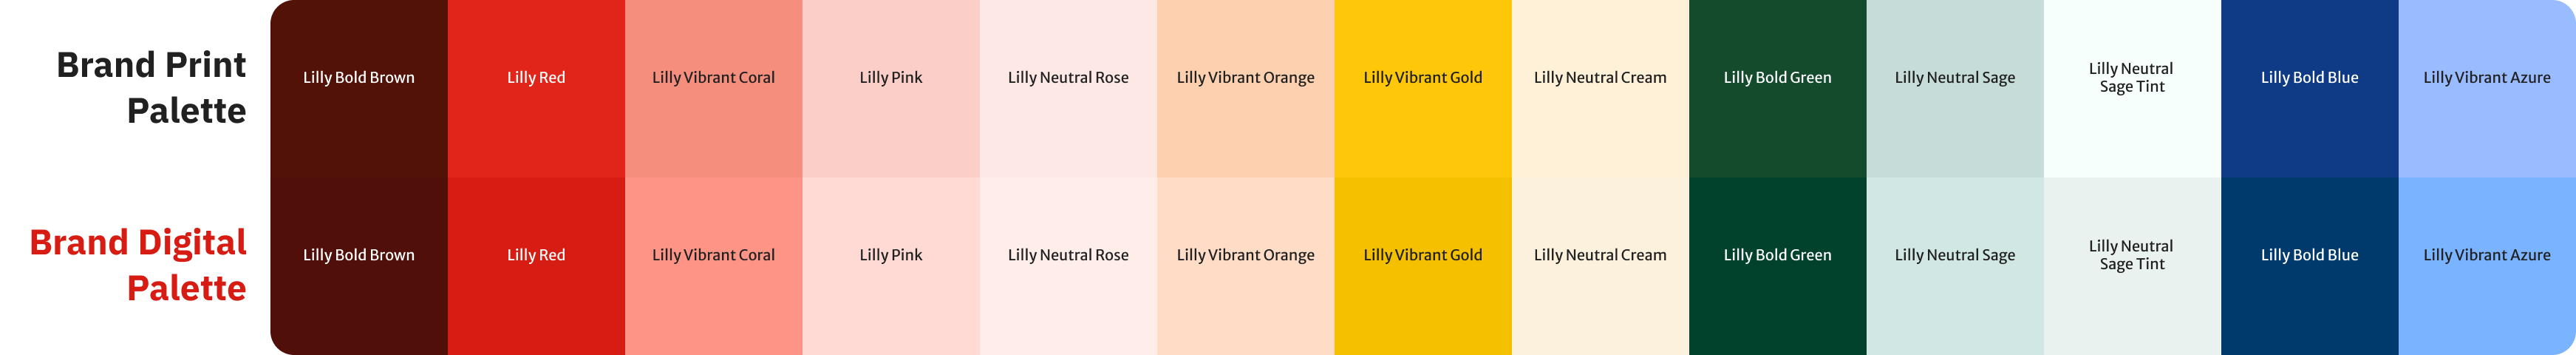
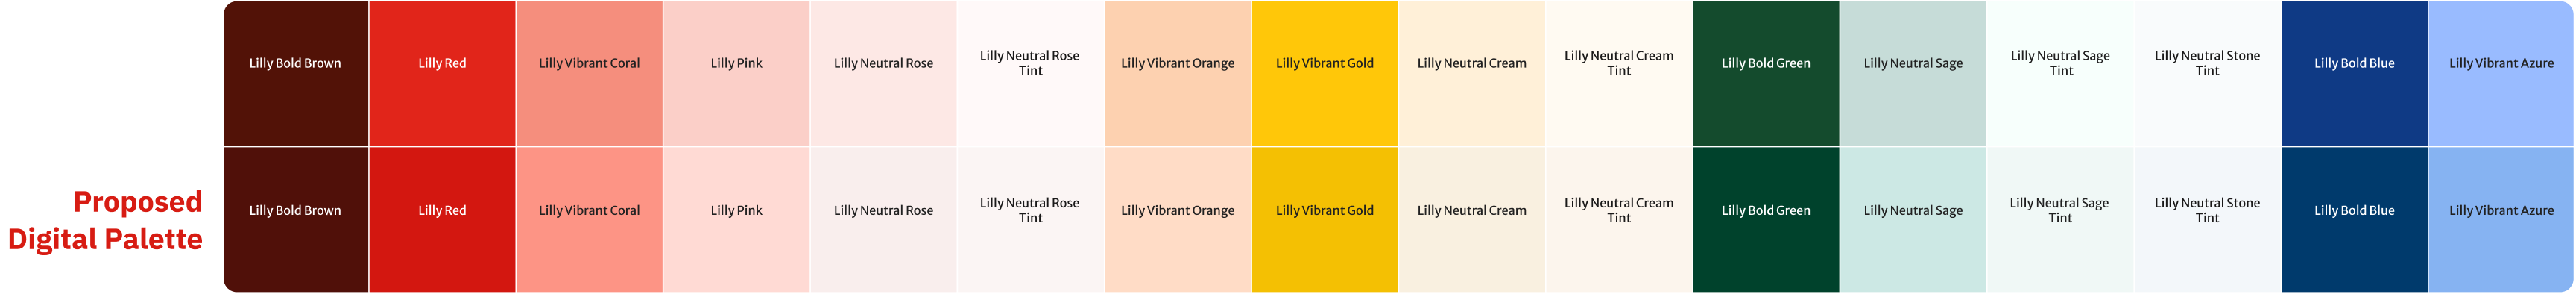
Rewrite color system title and intro

diff --git a/color-system.html b/color-system.html
@@ -3,7 +3,7 @@
 <head>
     <meta charset="UTF-8">
     <meta name="viewport" content="width=device-width, initial-scale=1.0">
-    <title>A Color System Built to Scale Across a Global Brand Portfolio — Grant Thomas</title>
+    <title>The Color System Behind a Global Pharmaceutical Brand Family — Grant Thomas</title>
     <link rel="preconnect" href="https://fonts.googleapis.com">
     <link rel="preconnect" href="https://fonts.gstatic.com" crossorigin>
     <link href="https://fonts.googleapis.com/css2?family=Bebas+Neue&family=DM+Mono:wght@400;500&family=DM+Sans:opsz,wght@9..40,400;9..40,500;9..40,600;9..40,700&display=swap" rel="stylesheet">
@@ -151,8 +151,8 @@
             <div class="container">
                 <a href="index.html" class="back-link">← Back to Portfolio</a>
                 <p class="case-eyebrow">Color Systems · Design Systems · Accessibility · Brand</p>
-                <h1>A Color System Built to Scale Across a Global Brand Portfolio</h1>
-                <p class="subtitle">HCT-based palette architecture designed for accessibility, built to maintain brand integrity, and deployed across a pharmaceutical brand family reaching millions of patients.</p>
+                <h1>The Color System Behind a Global Pharmaceutical Brand Family</h1>
+                <p class="subtitle">When a world-class agency hands you colors that fail accessibility, you don't just say no — you come back with data. This is how we built an HCT-based color architecture that kept the brand intact, cleared WCAG, and scaled to an entire product portfolio.</p>
             </div>
         </div>
 
@@ -161,8 +161,8 @@
                 <div class="overview-grid">
                     <div class="overview-content">
                         <h2>Project Overview</h2>
-                        <p>A global pharmaceutical company's brand colors were designed for print. When it came time to build a scalable digital color system, those colors failed accessibility standards — and one high-profile brand red was flagged as too close to a major competitor's identity.</p>
-                        <p>Using HCT (Hue, Chroma, Tone) — a perceptually accurate color space that models how humans actually see color — I built a tonal palette framework that resolved both problems. The brand stayed recognizable. The system passed WCAG. And it scaled to every product in the portfolio.</p>
+                        <p>The brand's colors were built for print. Bold, saturated, and unmistakably on-brand — and completely unusable in a digital product at scale. Accessibility failures across the board, and a proposed brand red that sat uncomfortably close to a major competitor's identity.</p>
+                        <p>Using HCT — a perceptually accurate color space that models how humans actually see color — I converted the entire palette for digital, resolved the competitive conflict, and built a tonal framework that now powers every component state across the design system.</p>
                     </div>
                     <div class="project-details">
                         <h3>Project Details</h3>

diff --git a/index.html b/index.html
@@ -250,8 +250,8 @@
                             <img src="CS_Overview.png" alt="HCT-based color system — tonal palette grid" loading="lazy">
                         </div>
                         <div class="case-content">
-                            <h3 class="case-title">A Color System Built to Scale Across a Global Brand Portfolio</h3>
-                            <p class="case-description">HCT-based palette architecture designed with Wieden+Kennedy, built for accessibility, and deployed across a pharmaceutical brand family reaching millions of patients.</p>
+                            <h3 class="case-title">The Color System Behind a Global Pharmaceutical Brand Family</h3>
+                            <p class="case-description">When a world-class agency handed us colors that failed accessibility, we didn't just say no — we came back with data. HCT-based palette architecture that kept the brand intact, cleared WCAG, and scaled across an entire product portfolio.</p>
                             <div class="case-tags">
                                 <span class="tag">Color Systems</span>
                                 <span class="tag">Design Systems</span>